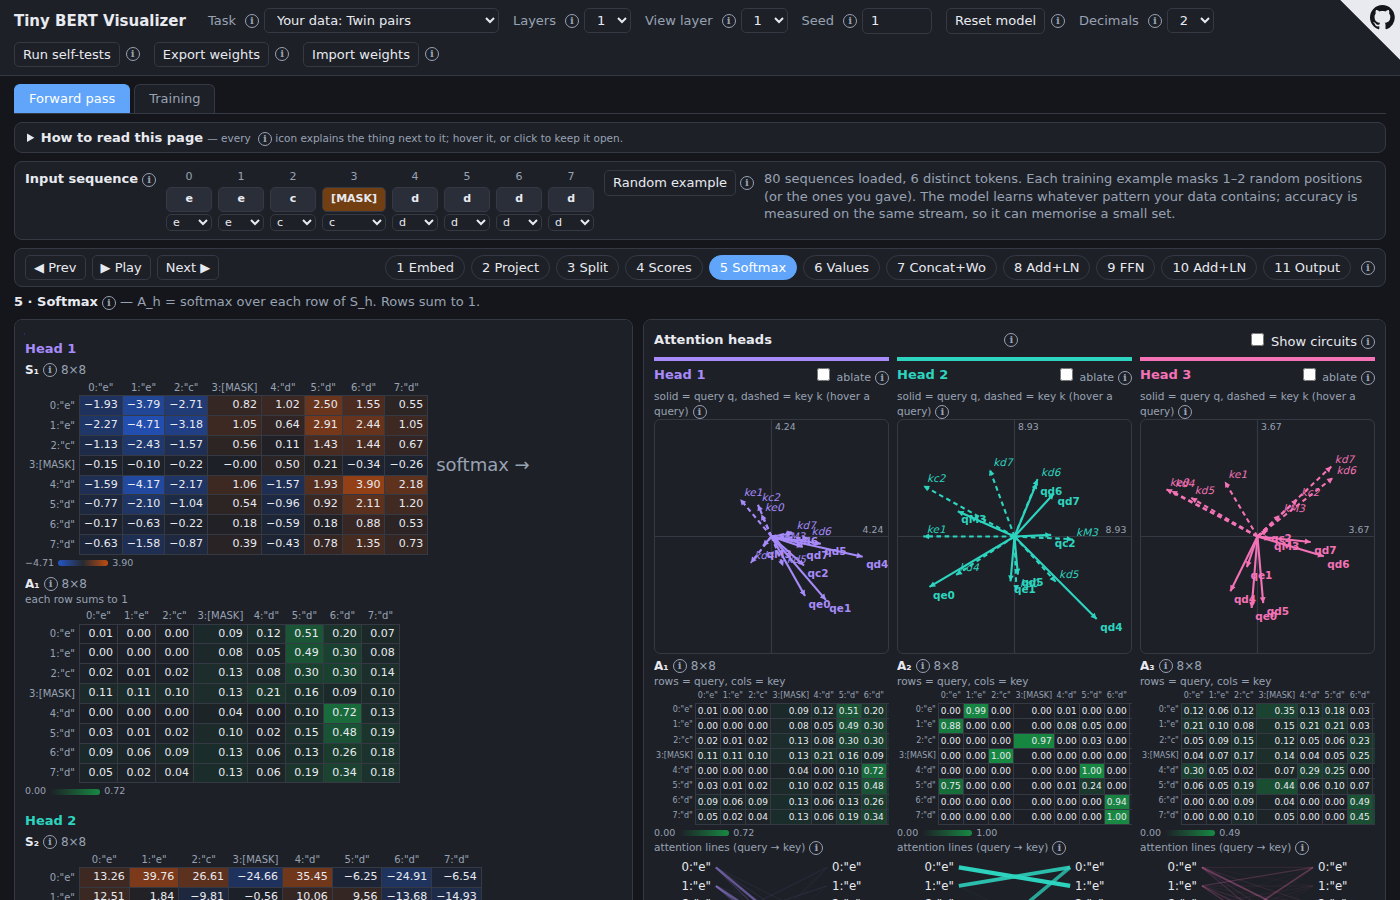
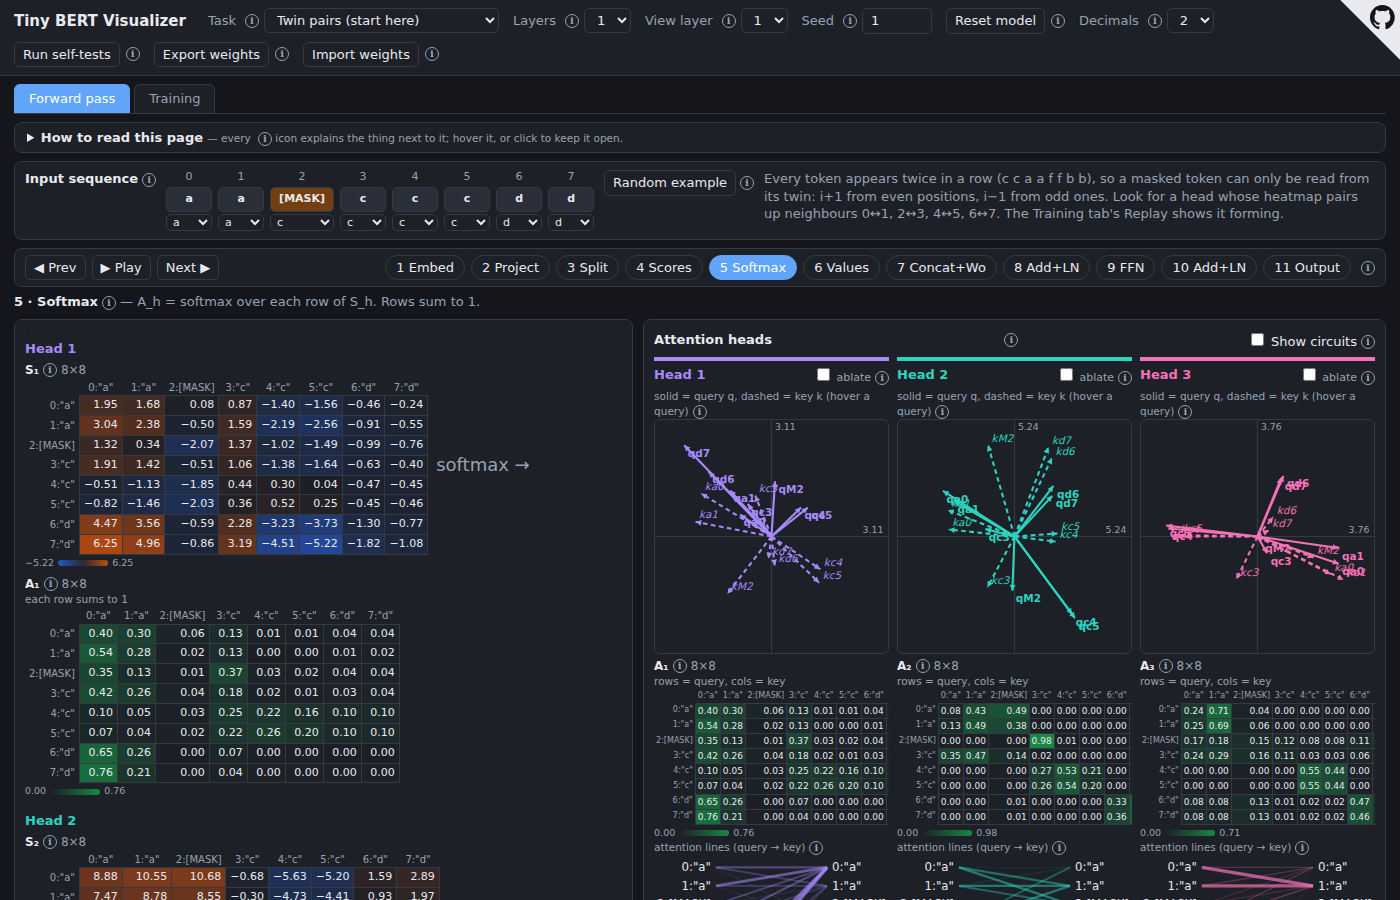
Retake README screenshot on the new default task

diff --git a/README.md b/README.md
@@ -5,7 +5,7 @@
 
 **Live demo:** https://nephorion.github.io/picobert/
 
-![The forward-pass view after 3000 steps on the Twin pairs example set: head 2 mostly attends to each token's twin](docs/screenshot.png)
+![The forward-pass view after 3000 steps on the default Twin pairs task: for the masked token, head 2 puts 0.98 of its attention on the token's twin](docs/screenshot.png)
 
 Open `index.html` directly in Chrome, Firefox or Edge (no server, no build, works offline). It runs a deliberately tiny BERT-style encoder (d_model 6, 3 heads of width 2) written in plain JS with a hand-rolled matrix autograd, and trains it live on toy masked-token tasks. The **pipeline strip** steps through one forward pass (←/→, Prev/Next/Play); the **left panel** shows every intermediate matrix of the selected stage with real numbers, and hovering any computed cell shows the arithmetic that produced it and highlights its inputs. The **heads panel** (right) shows, per head, the query (solid) and key (dashed) vectors as 2D arrows (hover a query to see its projection onto each key), the attention heatmap, attention lines, and optionally the W_QK / W_OV circuit matrices; each head can be ablated. The **bottom panel** trains (Train / Step ×1 / Step ×100), plots loss and masked-token accuracy, shows predictions at the masked positions, and saves/restores weight snapshots to compare before and after.
 
